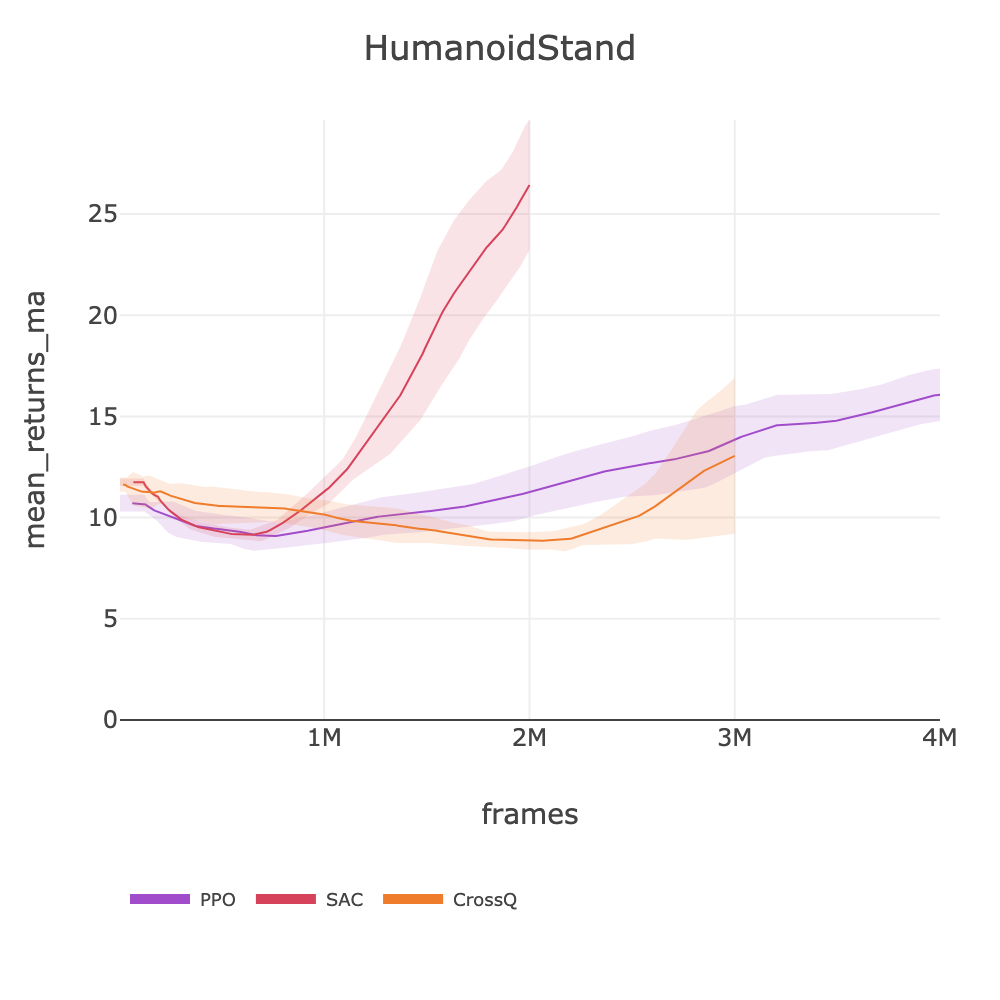
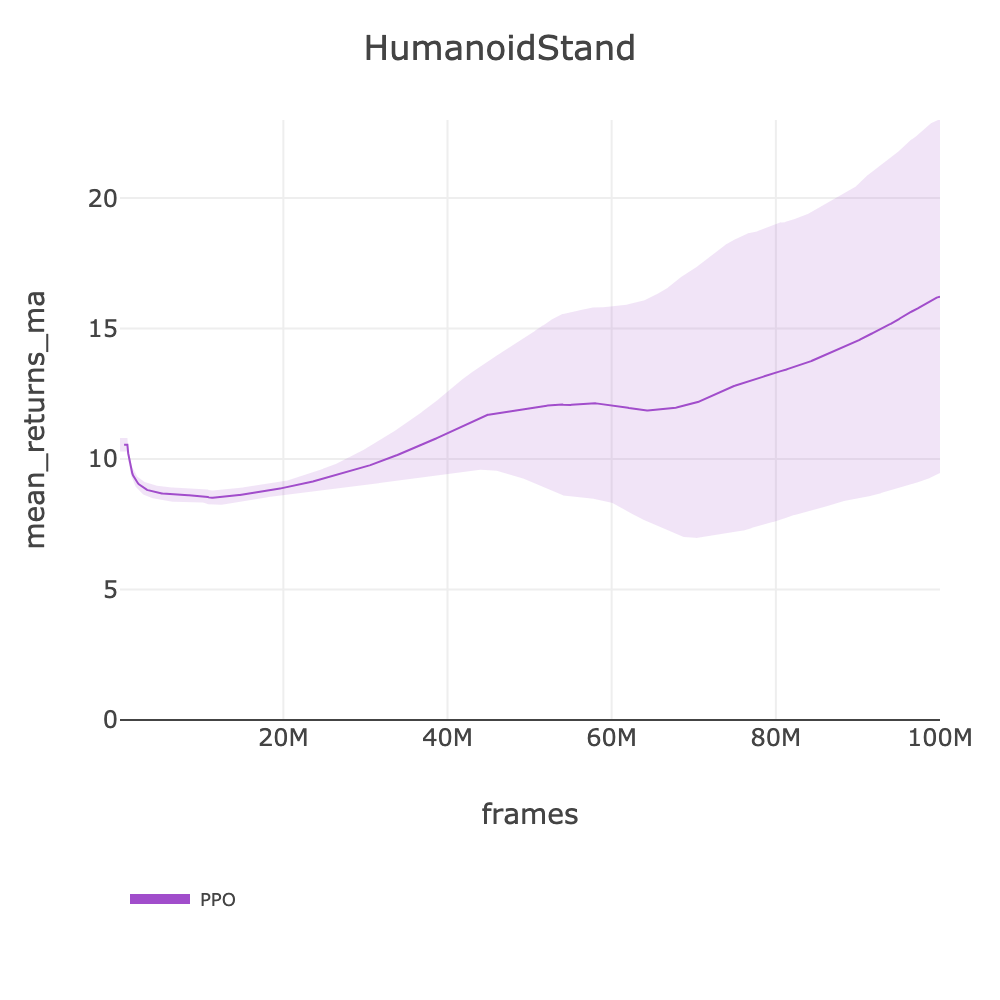
feat: intake HumanoidStand 16.23 (❌ vs 700 ref), regenerate plots, update skill intake docs

diff --git a/.claude/skills/benchmark/SKILL.md b/.claude/skills/benchmark/SKILL.md
@@ -81,9 +81,18 @@ watch -n 2 nvidia-smi
 
 When a run completes (`dstack ps` shows `exited (0)`):
 
-1. **Extract score**: `dstack logs NAME | grep "trial_metrics"` → get `total_reward_ma`
+1. **Extract score + stats** from logs:
+   ```bash
+   dstack logs NAME 2>&1 | grep "trial_metrics"   # → total_reward_ma, frame
+   dstack logs NAME 2>&1 | grep "fps:" | tail -5   # → fps (take last stable value)
+   dstack logs NAME 2>&1 | grep "wall_t:" | tail -1 # → wall_t in seconds → convert to h:mm
+   ```
+   - **MA** = `total_reward_ma` from trial_metrics
+   - **Frames** = `frame:` from trial_metrics (e.g. `1.00e+08`)
+   - **FPS** = last fps value from step logs (e.g. `12500`)
+   - **Wall Clock** = `wall_t` seconds → format as `Xh Ym` (e.g. `2h 18m`)
 2. **Find HF folder name**: `dstack logs NAME 2>&1 | grep "Uploading data/"` → extract folder name from the upload log line
-3. **Update table score** in BENCHMARKS.md
+3. **Update table** in BENCHMARKS.md: fill ALL columns — MA, HF Data, FPS, Frames, Wall Clock
 4. **Update table HF link**: `[FOLDER](https://huggingface.co/datasets/SLM-Lab/benchmark-dev/tree/main/data/FOLDER)`
 5. **Pull HF data locally**: `source .env && huggingface-cli download SLM-Lab/benchmark-dev --local-dir data/benchmark-dev --repo-type dataset --include "data/FOLDER/*"`
 6. **Generate plot** (MANDATORY — do NOT skip):

diff --git a/docs/BENCHMARKS.md b/docs/BENCHMARKS.md
@@ -936,7 +936,7 @@ source .env && uv run slm-lab run-remote --gpu \
 | playground/HumanoidRun | PPO | 🔄 | - | ppo_playground | - | 130 | - | - | - |
 | | CrossQ | 🔄 | - | crossq_playground_vhard | - | | - | - | - |
 | | SAC | 🔄 | - | sac_playground | - | | - | - | - |
-| playground/HumanoidStand | PPO | 🔄 | - | ppo_playground_loco | - | 700 | - | - | - |
+| playground/HumanoidStand | PPO | ❌ | 16.23 | ppo_playground_loco | [ppo_playground_loco_humanoidstand_2026_03_11_152703](https://huggingface.co/datasets/SLM-Lab/benchmark-dev/tree/main/data/ppo_playground_loco_humanoidstand_2026_03_11_152703) | 700 | 15610 | 100M | 1h 47m |
 | | CrossQ | 🔄 | - | crossq_playground_vhard | - | | - | - | - |
 | | SAC | 🔄 | - | sac_playground | - | | - | - | - |
 | playground/HumanoidWalk | PPO | 🔄 | - | ppo_playground | - | 500 | - | - | - |
